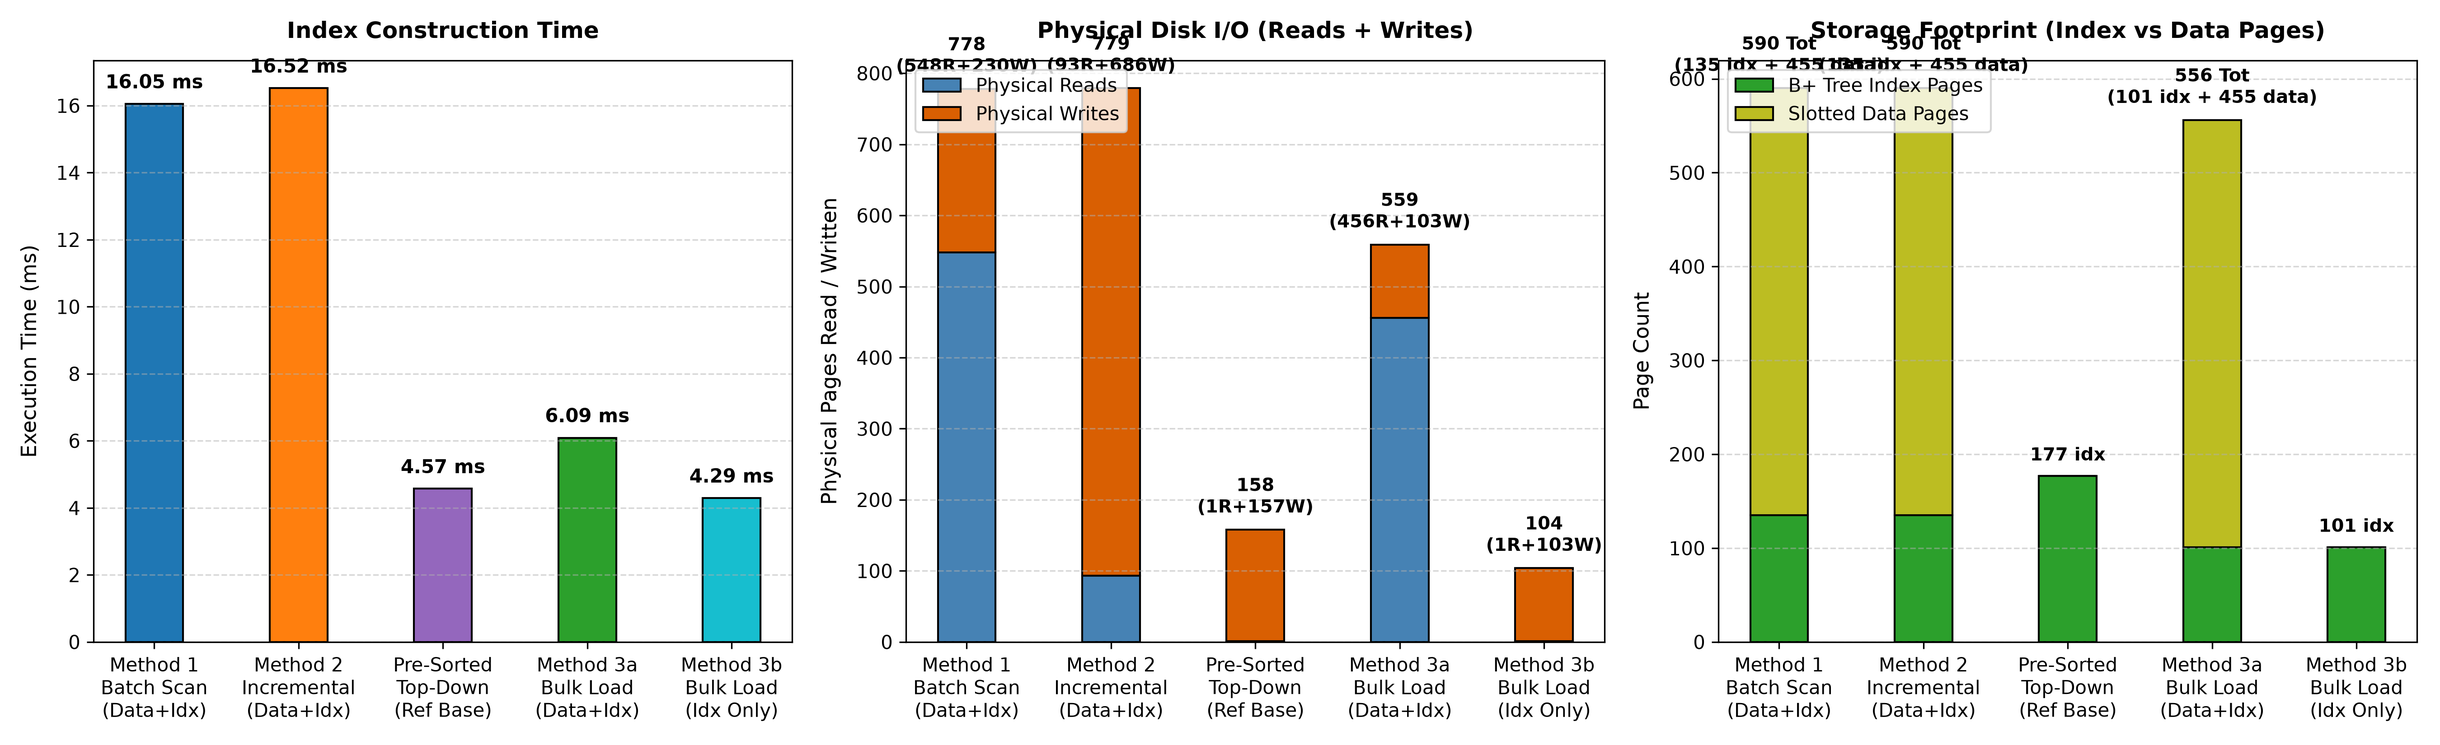
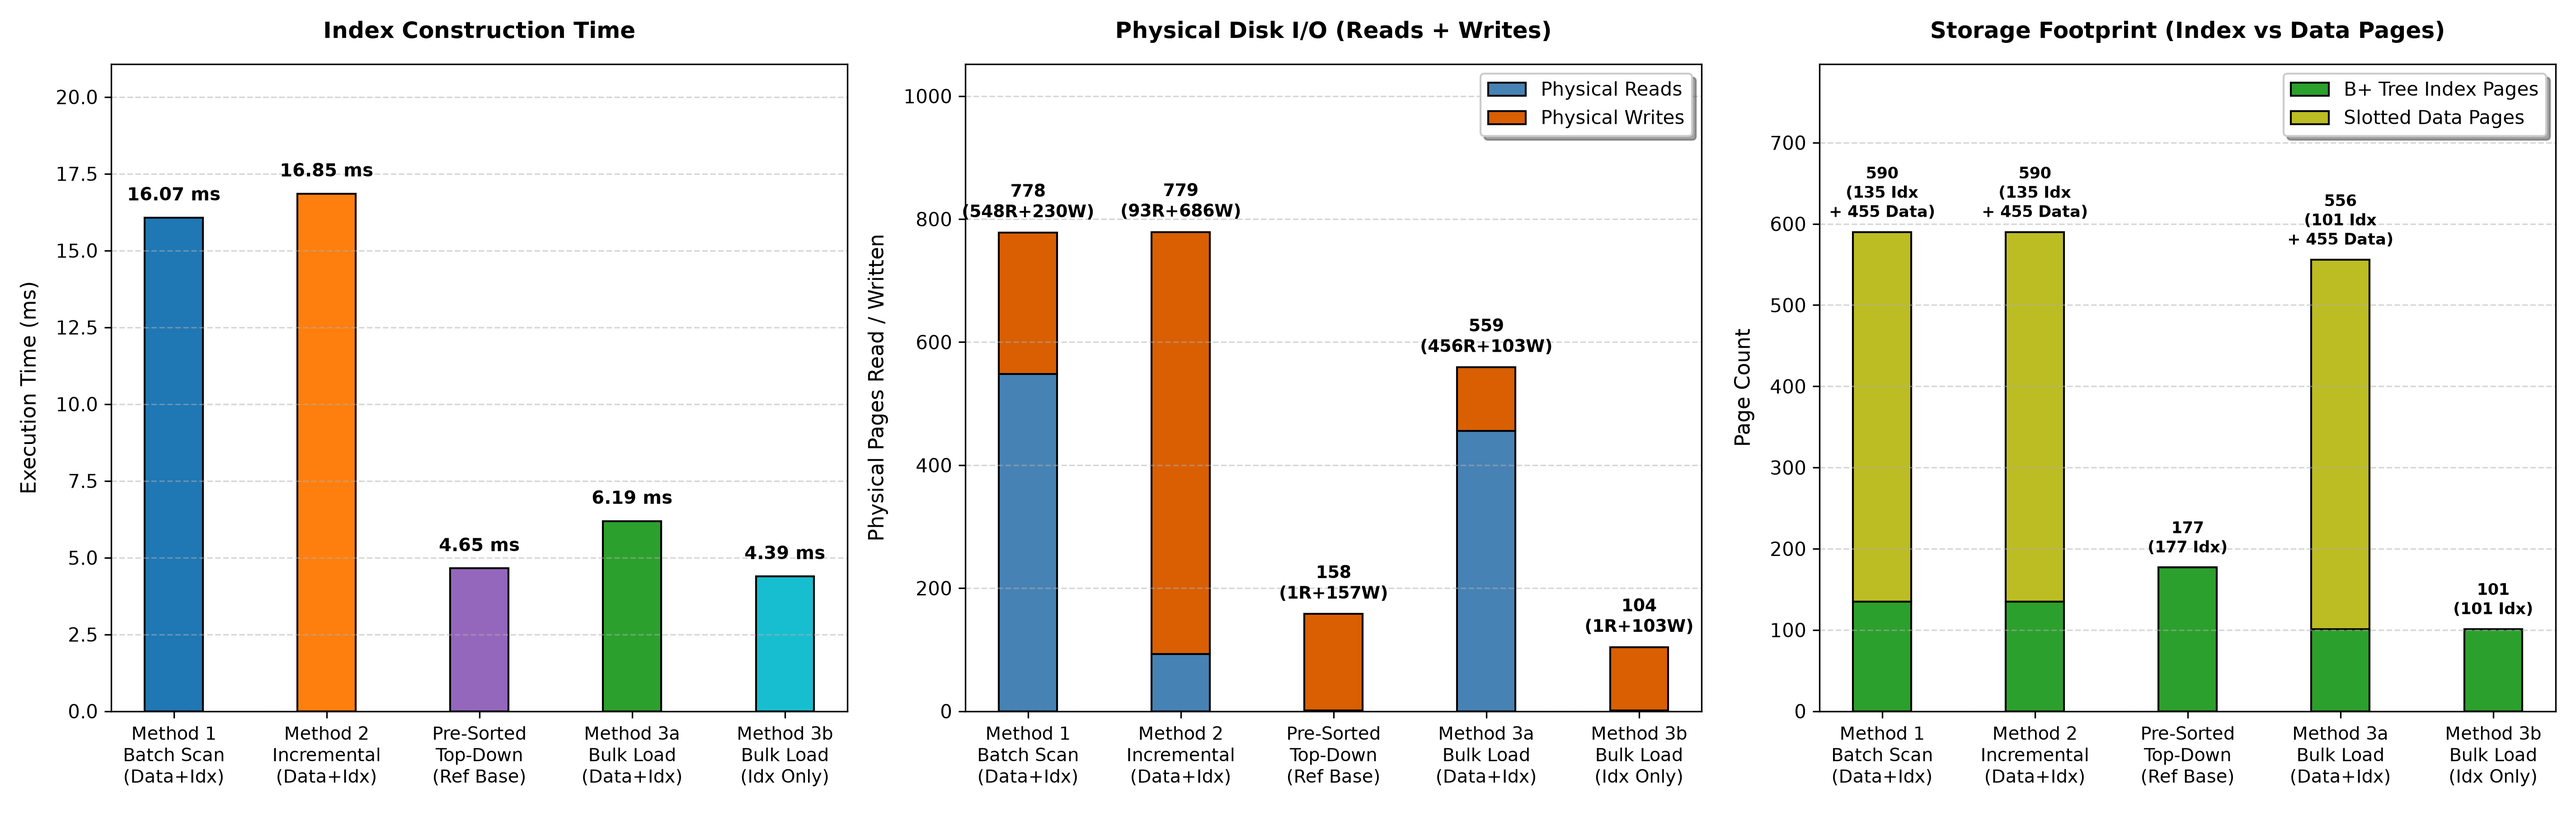
style: increase plot y-axis headroom and prevent legend clashing in am_indexing_comparison

Changed region(s): [[0.0, 0.0309, 0.9956, 0.9891], [0.9644, 0.4636, 0.9956, 0.4945]]

diff --git a/scripts/plot_am_comparison.py b/scripts/plot_am_comparison.py
@@ -18,7 +18,7 @@ def plot_am_comparison():
     df = pd.read_csv(csv_path)
     os.makedirs('plots', exist_ok=True)
 
-    fig, (ax1, ax2, ax3) = plt.subplots(1, 3, figsize=(18, 5.5))
+    fig, (ax1, ax2, ax3) = plt.subplots(1, 3, figsize=(19, 6))
 
     if len(df) == 5:
         approaches = [
@@ -29,7 +29,7 @@ def plot_am_comparison():
             'Method 3b\nBulk Load\n(Idx Only)'
         ]
         colors = ['#1f77b4', '#ff7f0e', '#9467bd', '#2ca02c', '#17becf']
-        width = 0.40
+        width = 0.38
     elif len(df) == 4:
         approaches = [
             'Method 1\nBatch Scan\n(Data+Idx)',
@@ -48,15 +48,17 @@ def plot_am_comparison():
 
     # 1. Build Time (ms)
     b1 = ax1.bar(x, df['BuildTimeMs'], color=colors, width=width, edgecolor='black', linewidth=1)
-    ax1.set_title('Index Construction Time', fontsize=12, fontweight='bold', pad=12)
+    ax1.set_title('Index Construction Time', fontsize=12, fontweight='bold', pad=14)
     ax1.set_ylabel('Execution Time (ms)', fontsize=11, labelpad=8)
     ax1.set_xticks(x)
-    ax1.set_xticklabels(approaches, fontsize=10)
+    ax1.set_xticklabels(approaches, fontsize=9.5)
     ax1.grid(axis='y', linestyle='--', alpha=0.5)
+    max_time = max(df['BuildTimeMs'])
+    ax1.set_ylim(0, max_time * 1.25)
     for bar in b1:
         yval = bar.get_height()
-        ax1.text(bar.get_x() + bar.get_width()/2.0, yval + max(df['BuildTimeMs'])*0.02, f'{yval:.2f} ms',
-                 ha='center', va='bottom', fontsize=10, fontweight='bold')
+        ax1.text(bar.get_x() + bar.get_width()/2.0, yval + max_time*0.025, f'{yval:.2f} ms',
+                 ha='center', va='bottom', fontsize=9.5, fontweight='bold')
 
     # 2. Total Disk I/O (Reads vs Writes Stacked)
     p_reads = df['PhysicalReads']
@@ -66,19 +68,21 @@ def plot_am_comparison():
     b_read = ax2.bar(x, p_reads, color='#4682b4', width=width, edgecolor='black', label='Physical Reads')
     b_write = ax2.bar(x, p_writes, bottom=p_reads, color='#d95f02', width=width, edgecolor='black', label='Physical Writes')
 
-    ax2.set_title('Physical Disk I/O (Reads + Writes)', fontsize=12, fontweight='bold', pad=12)
+    ax2.set_title('Physical Disk I/O (Reads + Writes)', fontsize=12, fontweight='bold', pad=14)
     ax2.set_ylabel('Physical Pages Read / Written', fontsize=11, labelpad=8)
     ax2.set_xticks(x)
-    ax2.set_xticklabels(approaches, fontsize=10)
+    ax2.set_xticklabels(approaches, fontsize=9.5)
     ax2.grid(axis='y', linestyle='--', alpha=0.5)
-    ax2.legend(loc='upper left', frameon=True)
+    max_io = max(p_total)
+    ax2.set_ylim(0, max_io * 1.35)
+    ax2.legend(loc='upper right', frameon=True, fontsize=10, shadow=True)
 
     for i in range(len(x)):
         tot = p_total.iloc[i]
         rd = p_reads.iloc[i]
         wr = p_writes.iloc[i]
-        ax2.text(x[i], tot + max(p_total)*0.02, f'{tot}\n({rd}R+{wr}W)',
-                 ha='center', va='bottom', fontsize=9.5, fontweight='bold')
+        ax2.text(x[i], tot + max_io*0.02, f'{tot}\n({rd}R+{wr}W)',
+                 ha='center', va='bottom', fontsize=9, fontweight='bold')
 
     # 3. Storage Footprint: B+ Tree Index Pages vs Data Pages
     idx_pages = df['IndexPages']
@@ -88,23 +92,25 @@ def plot_am_comparison():
     b_idx = ax3.bar(x, idx_pages, color='#2ca02c', width=width, edgecolor='black', label='B+ Tree Index Pages')
     b_data = ax3.bar(x, data_pages, bottom=idx_pages, color='#bcbd22', width=width, edgecolor='black', label='Slotted Data Pages')
 
-    ax3.set_title('Storage Footprint (Index vs Data Pages)', fontsize=12, fontweight='bold', pad=12)
+    ax3.set_title('Storage Footprint (Index vs Data Pages)', fontsize=12, fontweight='bold', pad=14)
     ax3.set_ylabel('Page Count', fontsize=11, labelpad=8)
     ax3.set_xticks(x)
-    ax3.set_xticklabels(approaches, fontsize=10)
+    ax3.set_xticklabels(approaches, fontsize=9.5)
     ax3.grid(axis='y', linestyle='--', alpha=0.5)
-    ax3.legend(loc='upper left', frameon=True)
+    max_pg = max(total_pages)
+    ax3.set_ylim(0, max_pg * 1.35)
+    ax3.legend(loc='upper right', frameon=True, fontsize=10, shadow=True)
 
     for i in range(len(x)):
         tot = total_pages.iloc[i]
         idx_p = idx_pages.iloc[i]
         dt_p = data_pages.iloc[i]
         if dt_p > 0:
-            lbl = f'{tot} Tot\n({idx_p} idx + {dt_p} data)'
+            lbl = f'{tot}\n({idx_p} Idx\n+ {dt_p} Data)'
         else:
-            lbl = f'{idx_p} idx'
-        ax3.text(x[i], tot + max(total_pages)*0.02, lbl,
-                 ha='center', va='bottom', fontsize=9.5, fontweight='bold')
+            lbl = f'{idx_p}\n({idx_p} Idx)'
+        ax3.text(x[i], tot + max_pg*0.02, lbl,
+                 ha='center', va='bottom', fontsize=8.5, fontweight='bold')
 
     plt.tight_layout()
     out_path = 'plots/am_indexing_comparison.png'

diff --git a/scripts/plot_pf_workload.py b/scripts/plot_pf_workload.py
@@ -67,8 +67,9 @@ def main():
     ax1.set_title('Logical & Physical I/O vs. Read/Write Query Mix', fontsize=12, fontweight='bold', pad=10)
     ax1.set_xlabel('Query Mixture (% Read / % Write)', fontsize=11, fontweight='semibold')
     ax1.set_ylabel('I/O Operations Count', fontsize=11, fontweight='semibold')
+    ax1.set_ylim(0, max(log_reads) * 1.25)
     ax1.grid(True, linestyle=':', alpha=0.6)
-    ax1.legend(loc='best', frameon=True)
+    ax1.legend(loc='upper right', frameon=True, framealpha=0.92, fontsize=9.5)
 
     # Subplot 2: Total Physical I/O & Hit Ratio
     color = '#9467bd'
@@ -76,15 +77,20 @@ def main():
     ax2.set_xlabel('Query Mixture (% Read / % Write)', fontsize=11, fontweight='semibold')
     ax2.set_ylabel('Total Physical I/O (Disk Reads + Writes)', color=color, fontsize=11, fontweight='semibold')
     bar = ax2.bar(mix_labels, total_phys, color=color, alpha=0.45, width=0.45, label='Total Physical I/O')
+    ax2.set_ylim(0, max(total_phys) * 1.30)
     ax2.tick_params(axis='y', labelcolor=color)
     ax2.grid(True, linestyle=':', alpha=0.6)
 
     ax2_twin = ax2.twinx()
     color_twin = '#e377c2'
-    ax2_twin.plot(mix_labels, hit_ratios, color=color_twin, marker='o', linewidth=2.5, label='Buffer Hit Ratio (%)')
+    line_twin = ax2_twin.plot(mix_labels, hit_ratios, color=color_twin, marker='o', linewidth=2.5, label='Buffer Hit Ratio (%)')
     ax2_twin.set_ylabel('Buffer Hit Ratio (%)', color=color_twin, fontsize=11, fontweight='semibold')
     ax2_twin.tick_params(axis='y', labelcolor=color_twin)
     ax2_twin.set_ylim([0, 100])
+
+    lines1, labels1 = ax2.get_legend_handles_labels()
+    lines2, labels2 = ax2_twin.get_legend_handles_labels()
+    ax2.legend(lines1 + lines2, labels1 + labels2, loc='upper left', frameon=True, framealpha=0.92, fontsize=9.5)
 
     fig.tight_layout()
     plt.savefig(out_path, bbox_inches='tight')

diff --git a/scripts/plot_space_utilization.py b/scripts/plot_space_utilization.py
@@ -37,13 +37,13 @@ def plot_space_utilization():
     ax1.set_ylabel('Effective Space Utilization (%)', fontsize=11, labelpad=8)
     ax1.set_xticks(x)
     ax1.set_xticklabels(labels, fontsize=10)
-    ax1.set_ylim(0, 105)
+    ax1.set_ylim(0, 110)
     ax1.grid(axis='y', linestyle='--', alpha=0.5)
 
     for bar in bars1:
         yval = bar.get_height()
-        ax1.text(bar.get_x() + bar.get_width()/2.0, yval + 1.5, f'{yval:.1f}%',
-                 ha='center', va='bottom', fontsize=9, fontweight='bold')
+        ax1.text(bar.get_x() + bar.get_width()/2.0, yval + 1.8, f'{yval:.1f}%',
+                 ha='center', va='bottom', fontsize=9.5, fontweight='bold')
 
     # 2. Total Storage Allocated (KB) & Wasted Space (KB)
     width = 0.35
@@ -54,10 +54,11 @@ def plot_space_utilization():
     b2 = ax2.bar(x + width/2, waste_kb, width=width, label='Wasted Space (KB)', color='#ff7f0e', edgecolor='black')
     ax2.set_title('Total Storage Overhead & Internal Fragmentation', fontsize=13, fontweight='bold', pad=12)
     ax2.set_xlabel('Record Management Scheme', fontsize=11, labelpad=8)
-    ax2.set_ylabel('Kilobytes (KB)', fontsize=11, labelpad=8)
+    ax2.set_ylabel('Storage in Kilobytes (KB)', fontsize=11, labelpad=8)
     ax2.set_xticks(x)
     ax2.set_xticklabels(labels, fontsize=10)
-    ax2.legend(frameon=True, fontsize=10)
+    ax2.set_ylim(0, max(alloc_kb) * 1.22)
+    ax2.legend(loc='upper left', frameon=True, framealpha=0.92, fontsize=10)
     ax2.grid(axis='y', linestyle='--', alpha=0.5)
 
     plt.tight_layout()
